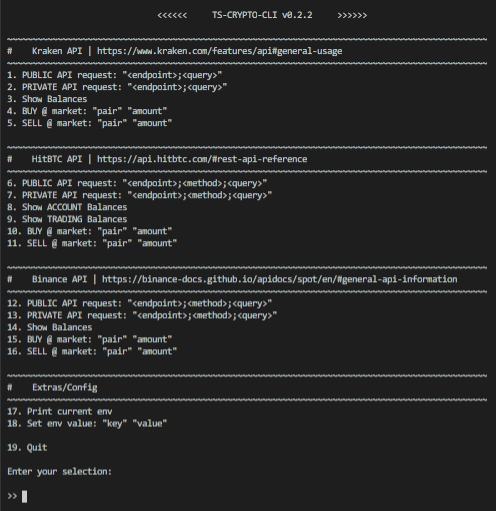
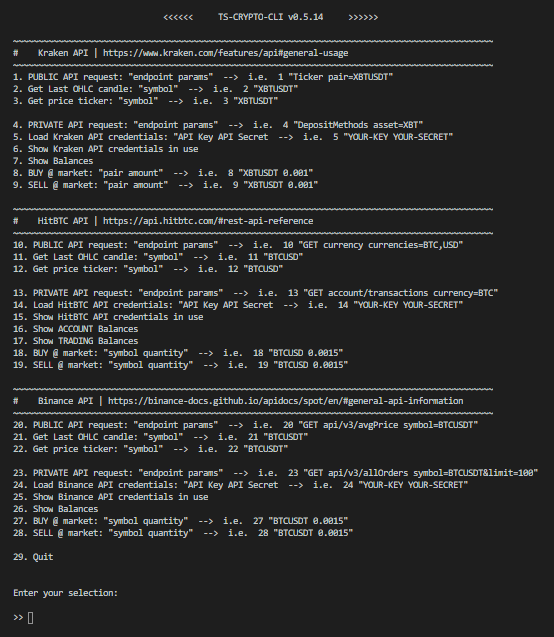
v0.5.14

Changed region(s): [[0.0, 0.0, 0.998, 0.8806], [0.5141, 0.1761, 0.8165, 0.2348], [0.0, 0.91, 0.2419, 0.998]]

diff --git a/src/cli.ts b/src/cli.ts
@@ -34,51 +34,53 @@ import { getHitBTCOHLCCandles } from './services/hitbtc/get_hitbtc_ohlc_candles'
 
 import { filterKrakenBalances, filterHitBTCBalances, filterBinanceBalances } from './util/filter_balances'
 import handleUserInput from './util/handle_user_input'
+import { Method } from 'axios'
 
 nodeMenu
   .customHeader(() => {
-    process.stdout.write(`                              <<<<<<     TS-CRYPTO-CLI v${version}     >>>>>>\n\n`)
+    process.stdout.write(`                              <<<<<<     TS-CRYPTO-CLI v${version}     >>>>>>\n`)
   })
 
-  .addDelimiter('~~~~~~~~~~~~~~~~~~~~~~~~~~~~~~~~~~~~~~~~~~~~~~~~~~~~~~~~~~~~~~~~~~~~~~~~~~~~~~~~~~~~~~~~~~~~~~~~\n#    Kraken API | https://www.kraken.com/features/api#general-usage\n~~~~~~~~~~~~~~~~~~~~~~~~~~~~~~~~~~~~~~~~~~~~~~~~~~~~~~~~~~~~~~~~~~~~~~~~~~~~~~~~~~~~~~~~~~~~~~~~', 2)
-  .addItem('Load Kraken API credentials', (apiKey: string, apiSecret: string) => { process.env.KRAKEN_API_KEY = apiKey; process.env.KRAKEN_API_SECRET = apiSecret; updateKrakenDefaultClient(apiKey, apiSecret) }, null, [{ name: 'API Key', type: 'string' }, { name: 'API Secret', type: 'string' }])
-  .addItem('Show Kraken API credentials in use', async () => { print({apiKey: process.env.KRAKEN_API_KEY, apiSecret: process.env.KRAKEN_API_SECRET}) })
-  .addItem('PUBLIC API request', (input: string) => { handleUserInput(input, 'kraken', 'public') }, null, [{ name: '<endpoint>;<query>', type: 'string' }])
-  .addItem('PRIVATE API request', (input: string) => { handleUserInput(input, 'kraken', 'private') }, null, [{ name: '<endpoint>;<query>', type: 'string' }])
-  .addItem('Get OHLC candles', async (symbol: string) => { print(await getKrakenOHLCCandles(symbol)) }, null, [{ name: '<symbol>', type: 'string' }])
-  .addItem('Get price ticker', async (symbol: string) => { print(await getKrakenPriceTicker(symbol)) }, null, [{ name: '<symbol>', type: 'string' }])
-  .addItem('Show Balances', async () => { print(filterKrakenBalances(await krakenPrivateApiRequest({ url: 'Balance' }))) })
-  .addItem('BUY @ market', async (pair: string, volume: number) => {  print(await krakenPrivateApiRequest({ url: 'AddOrder', data: { pair, type: 'buy', ordertype: 'market', volume } })) }, null, [{ name: '<pair>', type: 'string' }, { name: '<amount>', type: 'numeric' }])
-  .addItem('SELL @ market', async (pair: string, volume: number) => {  print(await krakenPrivateApiRequest({ url: 'AddOrder', data: { pair, type: 'sell', ordertype: 'market', volume } })) }, null, [{ name: '<pair>', type: 'string' }, { name: '<amount>', type: 'numeric' }])
-
+  .addDelimiter('\n~~~~~~~~~~~~~~~~~~~~~~~~~~~~~~~~~~~~~~~~~~~~~~~~~~~~~~~~~~~~~~~~~~~~~~~~~~~~~~~~~~~~~~~~~~~~~~~~\n#    Kraken API | https://www.kraken.com/features/api#general-usage \n~~~~~~~~~~~~~~~~~~~~~~~~~~~~~~~~~~~~~~~~~~~~~~~~~~~~~~~~~~~~~~~~~~~~~~~~~~~~~~~~~~~~~~~~~~~~~~~~', 2)
+  .addItem('PUBLIC API request', (input: string) => { const [endpoint, params] = input.split(' '); handleUserInput(endpoint, 'POST', 'kraken', 'public', params) }, null, [{ name: 'endpoint params"  -->  i.e.  1 "Ticker pair=XBTUSDT', type: 'string' }])
+  .addItem('Get Last OHLC candle', async (symbol: string) => { print((await getKrakenOHLCCandles(symbol))[0]) }, null, [{ name: 'symbol"  -->  i.e.  2 "XBTUSDT', type: 'string' }])
+  .addItem('Get price ticker', async (symbol: string) => { print(await getKrakenPriceTicker(symbol)) }, null, [{ name: 'symbol"  -->  i.e.  3 "XBTUSDT', type: 'string' }])
   .addDelimiter(' ', 1)
-  .addDelimiter('~~~~~~~~~~~~~~~~~~~~~~~~~~~~~~~~~~~~~~~~~~~~~~~~~~~~~~~~~~~~~~~~~~~~~~~~~~~~~~~~~~~~~~~~~~~~~~~~\n#    HitBTC API | https://api.hitbtc.com/#rest-api-reference\n~~~~~~~~~~~~~~~~~~~~~~~~~~~~~~~~~~~~~~~~~~~~~~~~~~~~~~~~~~~~~~~~~~~~~~~~~~~~~~~~~~~~~~~~~~~~~~~~', 2)
-  .addItem('Load HitBTC API credentials', (apiKey: string, apiSecret: string) => { process.env.HITBTC_API_KEY = apiKey; process.env.HITBTC_API_SECRET = apiSecret; updateHitBTCDefaultClient(apiKey, apiSecret) }, null, [{ name: 'API Key', type: 'string' }, { name: 'API Secret', type: 'string' }])
-  .addItem('Show HitBTC API credentials in use', async () => { print({apiKey: process.env.HITBTC_API_KEY, apiSecret: process.env.HITBTC_API_SECRET}) })
-  .addItem('PUBLIC API request', (input: string) => { handleUserInput(input, 'hitbtc', 'public') }, null, [{ name: '<endpoint>;<method>;<query>', type: 'string' }])
-  .addItem('PRIVATE API request', (input: string) => { handleUserInput(input, 'hitbtc', 'private') }, null, [{ name: '<endpoint>;<method>;<query>', type: 'string' }])
-  .addItem('Get OHLC candles', async (symbol: string) => { print(await getHitBTCOHLCCandles(symbol)) }, null, [{ name: '<symbol>', type: 'string' }])
-  .addItem('Get price ticker', async (symbol: string) => { print(await getHitBTCPriceTicker(symbol)) }, null, [{ name: '<symbol>', type: 'string' }])
+  .addItem('PRIVATE API request', (input: string) => { const [endpoint, params] = input.split(' '); handleUserInput(endpoint, 'POST', 'kraken', 'private', params) }, null, [{ name: 'endpoint params"  -->  i.e.  4 "DepositMethods asset=XBT', type: 'string' }])
+  .addItem('Load Kraken API credentials', (input: string) => { const [k, s] = input.split(' '); process.env.KRAKEN_API_KEY = k; process.env.KRAKEN_API_SECRET = s; updateKrakenDefaultClient(k, s) }, null, [{ name: 'API Key API Secret  -->  i.e.  5 "YOUR-KEY YOUR-SECRET', type: 'string' }])
+  .addItem('Show Kraken API credentials in use', () => { print({apiKey: process.env.KRAKEN_API_KEY, apiSecret: process.env.KRAKEN_API_SECRET}) })
+  .addItem('Show Balances', async () => { print(filterKrakenBalances(await krakenPrivateApiRequest({ url: 'Balance' }))) })
+  .addItem('BUY @ market', async (input: string) => {  const [pair, volume] = input.split(' '); print(await krakenPrivateApiRequest({ url: 'AddOrder', data: { pair, type: 'buy', ordertype: 'market', volume } })) }, null, [{ name: 'pair amount"  -->  i.e.  8 "XBTUSDT 0.001', type: 'string' }])
+  .addItem('SELL @ market', async (input: string) => {  const [pair, volume] = input.split(' '); print(await krakenPrivateApiRequest({ url: 'AddOrder', data: { pair, type: 'sell', ordertype: 'market', volume } })) }, null, [{ name: 'pair amount"  -->  i.e.  9 "XBTUSDT 0.001', type: 'string' }])
+
+  .addDelimiter('\n~~~~~~~~~~~~~~~~~~~~~~~~~~~~~~~~~~~~~~~~~~~~~~~~~~~~~~~~~~~~~~~~~~~~~~~~~~~~~~~~~~~~~~~~~~~~~~~~\n#    HitBTC API | https://api.hitbtc.com/#rest-api-reference \n~~~~~~~~~~~~~~~~~~~~~~~~~~~~~~~~~~~~~~~~~~~~~~~~~~~~~~~~~~~~~~~~~~~~~~~~~~~~~~~~~~~~~~~~~~~~~~~~', 2)
+  .addItem('PUBLIC API request', (input: string) => { const [method, endpoint, params] = input.split(' '); handleUserInput(endpoint, method as Method, 'hitbtc', 'public', params) }, null, [{ name: 'endpoint params"  -->  i.e.  10 "GET currency currencies=BTC,USD', type: 'string' }])
+  .addItem('Get Last OHLC candle', async (symbol: string) => { print((await getHitBTCOHLCCandles(symbol))[0]) }, null, [{ name: 'symbol"  -->  i.e.  11 "BTCUSD', type: 'string' }])
+  .addItem('Get price ticker', async (symbol: string) => { print(await getHitBTCPriceTicker(symbol)) }, null, [{ name: 'symbol"  -->  i.e.  12 "BTCUSD', type: 'string' }])
+  .addDelimiter(' ', 1)
+  .addItem('PRIVATE API request', (input: string) => { const [method, endpoint, params] = input.split(' '); handleUserInput(endpoint, method as Method, 'hitbtc', 'private', params) }, null, [{ name: 'endpoint params"  -->  i.e.  13 "GET account/transactions currency=BTC', type: 'string' }])
+  .addItem('Load HitBTC API credentials', (input: string) => { const [k, s] = input.split(' '); process.env.HITBTC_API_KEY = k; process.env.HITBTC_API_SECRET = s; updateHitBTCDefaultClient(k, s) }, null, [{ name: 'API Key API Secret  -->  i.e.  14 "YOUR-KEY YOUR-SECRET', type: 'string' }])
+  .addItem('Show HitBTC API credentials in use', () => { print({apiKey: process.env.HITBTC_API_KEY, apiSecret: process.env.HITBTC_API_SECRET}) })
   .addItem('Show ACCOUNT Balances', async () => { print(filterHitBTCBalances(await hitbtcPrivateApiRequest({ url: 'account/balance' }))) })
   .addItem('Show TRADING Balances', async () => { print(filterHitBTCBalances(await hitbtcPrivateApiRequest({ url: 'trading/balance' }))) })
-  .addItem('BUY @ market',  async (symbol: string, quantity: number) => { print(await hitbtcPrivateApiRequest({ url: 'order', method: 'POST', data: { symbol, side: 'buy', type: 'market', quantity } })) }, null, [{ name: '<pair>', type: 'string' }, { name: '<amount>', type: 'numeric' }])
-  .addItem('SELL @ market',  async (symbol: string, quantity: number) => { print(await hitbtcPrivateApiRequest({ url: 'order', method: 'POST', data: { symbol, side: 'sell', type: 'market', quantity } })) }, null, [{ name: '<pair>', type: 'string' }, { name: '<amount>', type: 'numeric' }])
+  .addItem('BUY @ market', async (input: string) => {  const [symbol, quantity] = input.split(' '); print(await hitbtcPrivateApiRequest({ url: 'order', method: 'POST', data: { symbol, side: 'buy', type: 'market', quantity } })) }, null, [{ name: 'symbol quantity"  -->  i.e.  18 "BTCUSD 0.0015', type: 'string' }])
+  .addItem('SELL @ market', async (input: string) => {  const [symbol, quantity] = input.split(' '); print(await hitbtcPrivateApiRequest({ url: 'order', method: 'POST', data: { symbol, side: 'sell', type: 'market', quantity } })) }, null, [{ name: 'symbol quantity"  -->  i.e.  19 "BTCUSD 0.0015', type: 'string' }])
+
+  .addDelimiter('\n~~~~~~~~~~~~~~~~~~~~~~~~~~~~~~~~~~~~~~~~~~~~~~~~~~~~~~~~~~~~~~~~~~~~~~~~~~~~~~~~~~~~~~~~~~~~~~~~\n#    Binance API | https://binance-docs.github.io/apidocs/spot/en/#general-api-information \n~~~~~~~~~~~~~~~~~~~~~~~~~~~~~~~~~~~~~~~~~~~~~~~~~~~~~~~~~~~~~~~~~~~~~~~~~~~~~~~~~~~~~~~~~~~~~~~~', 2)
+  .addItem('PUBLIC API request', (input: string) => { const [method, endpoint, params] = input.split(' '); handleUserInput(endpoint, method as Method, 'binance', 'public', params) }, null, [{ name: 'endpoint params"  -->  i.e.  20 "GET api/v3/avgPrice symbol=BTCUSDT', type: 'string' }])
+  .addItem('Get Last OHLC candle', async (symbol: string) => { print((await getBinanceOHLCCandles(symbol))[0]) }, null, [{ name: 'symbol"  -->  i.e.  21 "BTCUSDT', type: 'string' }])
+  .addItem('Get price ticker', async (symbol: string) => { print(await getBinancePriceTicker(symbol)) }, null, [{ name: 'symbol"  -->  i.e.  22 "BTCUSDT', type: 'string' }])
+  .addDelimiter(' ', 1)
+  .addItem('PRIVATE API request', (input: string) => { const [method, endpoint, params] = input.split(' '); handleUserInput(endpoint, method as Method, 'binance', 'private', params) }, null, [{ name: 'endpoint params"  -->  i.e.  23 "GET api/v3/allOrders symbol=BTCUSDT&limit=100', type: 'string' }])
+  .addItem('Load Binance API credentials', (input: string) => { const [k, s] = input.split(' '); process.env.BINANCE_API_KEY = k; process.env.BINANCE_API_SECRET = s; updateBinanceDefaultClient(k, s) }, null, [{ name: 'API Key API Secret  -->  i.e.  24 "YOUR-KEY YOUR-SECRET', type: 'string' }])
+  .addItem('Show Binance API credentials in use', () => { print({apiKey: process.env.BINANCE_API_KEY, apiSecret: process.env.BINANCE_API_SECRET}) })
+  .addItem('Show Balances', async () => { print(filterBinanceBalances((await binancePrivateApiRequest({ url: 'api/v3/account' })).balances)) })
+  .addItem('BUY @ market', async (input: string) => {  const [symbol, quantity] = input.split(' '); print(await binancePrivateApiRequest({ url: 'api/v3/order', method: 'POST', data: { symbol, side: 'buy', type: 'market', quantity } })) }, null, [{ name: 'symbol quantity"  -->  i.e.  27 "BTCUSDT 0.0015', type: 'string' }])
+  .addItem('SELL @ market', async (input: string) => {  const [symbol, quantity] = input.split(' '); print(await binancePrivateApiRequest({ url: 'api/v3/order', method: 'POST', data: { symbol, side: 'sell', type: 'market', quantity } })) }, null, [{ name: 'symbol quantity"  -->  i.e.  28 "BTCUSDT 0.0015', type: 'string' }])
 
   .addDelimiter(' ', 1)
-  .addDelimiter('~~~~~~~~~~~~~~~~~~~~~~~~~~~~~~~~~~~~~~~~~~~~~~~~~~~~~~~~~~~~~~~~~~~~~~~~~~~~~~~~~~~~~~~~~~~~~~~~\n#    Binance API | https://binance-docs.github.io/apidocs/spot/en/#general-api-information\n~~~~~~~~~~~~~~~~~~~~~~~~~~~~~~~~~~~~~~~~~~~~~~~~~~~~~~~~~~~~~~~~~~~~~~~~~~~~~~~~~~~~~~~~~~~~~~~~', 2)
-  .addItem('Load Binance API credentials', (apiKey: string, apiSecret: string) => { process.env.BINANCE_API_KEY = apiKey; process.env.BINANCE_API_SECRET = apiSecret; updateBinanceDefaultClient(apiKey, apiSecret) }, null, [{ name: 'API Key', type: 'string' }, { name: 'API Secret', type: 'string' }])
-  .addItem('Show Binance API credentials in use', async () => { print({apiKey: process.env.BINANCE_API_KEY, apiSecret: process.env.BINANCE_API_SECRET}) })
-  .addItem('PUBLIC API request', (input: string) => { handleUserInput(input, 'binance', 'public') }, null, [{ name: '<endpoint>;<method>;<query>', type: 'string' }])
-  .addItem('PRIVATE API request', (input: string) => { handleUserInput(input, 'binance', 'private') }, null, [{ name: '<endpoint>;<method>;<query>', type: 'string' }])
-  .addItem('Get OHLC candles', async (symbol: string) => { print(await getBinanceOHLCCandles(symbol)) }, null, [{ name: '<symbol>', type: 'string' }])
-  .addItem('Get price ticker', async (symbol: string) => { print(await getBinancePriceTicker(symbol)) }, null, [{ name: '<symbol>', type: 'string' }])
-  .addItem('Show Balances', async () => { print(filterBinanceBalances((await binancePrivateApiRequest({ url: 'api/v3/account' })).balances)) })
-  .addItem('BUY @ market',  async (symbol: string, quantity: number) => { print(await binancePrivateApiRequest({ url: 'api/v3/order', method: 'POST', data: { symbol, side: 'buy', type: 'market', quantity } })) }, null, [{ name: '<pair>', type: 'string' }, { name: '<amount>', type: 'numeric' }])
-  .addItem('SELL @ market',  async (symbol: string, quantity: number) => { print(await binancePrivateApiRequest({ url: 'api/v3/order', method: 'POST', data: { symbol, side: 'sell', type: 'market', quantity } })) }, null, [{ name: '<pair>', type: 'string' }, { name: '<amount>', type: 'numeric' }])
-
-  .addDelimiter(' ', 1) 
   .customPrompt(() => {
-    process.stdout.write('\nEnter your selection:\n')
+    process.stdout.write('\n\nEnter your selection:\n')
   })
   .continueCallback(() => {
     // Runs between 'Press enter to continue' and the new menu render

diff --git a/src/util/handle_user_input.ts b/src/util/handle_user_input.ts
@@ -1,21 +1,20 @@
-import { krakenPublicApiRequest, PublicEndpoint, krakenPrivateApiRequest, PrivateEndpoint, binancePublicApiRequest, binancePrivateApiRequest, hitbtcPublicApiRequest, hitbtcPrivateApiRequest } from ".."
-import { parse } from "path"
-import { Method } from "axios"
+import { krakenPublicApiRequest, PublicEndpoint, krakenPrivateApiRequest, PrivateEndpoint, binancePublicApiRequest, binancePrivateApiRequest, hitbtcPublicApiRequest, hitbtcPrivateApiRequest } from '..'
+import { parse } from 'qs'
+import { Method } from 'axios'
 import debugHelper from './debug_helper'
-const { print, logError } = debugHelper(__filename)
+const { print } = debugHelper(__filename)
 
-const handleUserInput = async (input: string, exchange: 'kraken' | 'hitbtc' | 'binance', pOp: 'public' | 'private'): Promise<void> => {
+const handleUserInput = async (endpoint: string, method: Method, exchange: 'kraken' | 'hitbtc' | 'binance', pOp: 'public' | 'private', params = ''): Promise<void> => {
     if (exchange === 'kraken') {
-      const [endpoint, rawParams] = input.split(';')
       if (pOp === 'public') {
-        print(await krakenPublicApiRequest({ url: endpoint as PublicEndpoint, data: parse(rawParams) }))
+        print(await krakenPublicApiRequest({ url: endpoint as PublicEndpoint, data: parse(params) }))
       } else {
-        print(await krakenPrivateApiRequest({ url: endpoint as PrivateEndpoint, data: parse(rawParams) }))
+        print(await krakenPrivateApiRequest({ url: endpoint as PrivateEndpoint, data: parse(params) }))
       }
       return
     }
-    const [endpoint, method = 'GET', rawParams] = input.split(';')
-    const dataOrParams = parse(rawParams)
+
+    const dataOrParams = parse(params)
     switch (exchange) {
       case 'binance':
         if (pOp === 'public') {
@@ -26,7 +25,6 @@ const handleUserInput = async (input: string, exchange: 'kraken' | 'hitbtc' | 'b
         return
       case 'hitbtc':
         if (pOp === 'public') {
-          const dataOrParams = parse(rawParams)
           print(await hitbtcPublicApiRequest({ url: endpoint, method: method as Method, data: dataOrParams, params: dataOrParams }))
         } else {
           print(await hitbtcPrivateApiRequest({ url: endpoint, method: method as Method, data: dataOrParams, params: dataOrParams }))

diff --git a/src/api_clients/hitbtc/private_api_request.ts b/src/api_clients/hitbtc/private_api_request.ts
@@ -3,7 +3,7 @@ import debugHelper from '../../util/debug_helper'
 import axios, { AxiosInstance, AxiosRequestConfig } from 'axios'
 import { hitbtcAxiosConfig } from './hitbtc_axios_config'
 
-const { debug } = debugHelper(__filename)
+// const { debug } = debugHelper(__filename)
 
 export const createHitBTCPrivateApiClient = (apikey = process.env.HITBTC_API_KEY || '', apiSecret = process.env.HITBTC_API_SECRET || ''): AxiosInstance => {
     const privateApiClient: AxiosInstance = axios.create(hitbtcAxiosConfig)
@@ -16,7 +16,7 @@ export const createHitBTCPrivateApiClient = (apikey = process.env.HITBTC_API_KEY
 let defaultClient = createHitBTCPrivateApiClient()
 export const hitbtcPrivateApiRequest = async ({ url, method, data, params }: AxiosRequestConfig): Promise<any> => {
     const { data: hitBTCresponse } = await defaultClient.request({ url, method, params, data })
-    debug({ hitBTCresponse })
+    // debug({ hitBTCresponse })
     return hitBTCresponse
 }
 

diff --git a/src/api_clients/binance/private_api_request.ts b/src/api_clients/binance/private_api_request.ts
@@ -5,7 +5,7 @@ import { binanceAxiosConfig } from './binance_axios_config'
 import * as moment from 'moment'
 import { getBinanceMessageSignature } from './message_signature'
 
-const { debug } = debugHelper(__filename)
+// const { debug } = debugHelper(__filename)
 
 export const createBinancePrivateApiClient = (apikey = process.env.BINANCE_API_KEY || '', apiSecret = process.env.BINANCE_API_SECRET || ''): AxiosInstance => {
     const privateApiClient: AxiosInstance = axios.create(binanceAxiosConfig)
@@ -46,7 +46,7 @@ export const createBinancePrivateApiClient = (apikey = process.env.BINANCE_API_K
 let defaultClient = createBinancePrivateApiClient()
 export const binancePrivateApiRequest = async ({ url, method, data, params }: AxiosRequestConfig): Promise<any> => {
     const { data: binanceresponse } = await defaultClient.request({ url, method, params, data })
-    debug({ binanceresponse })
+    // debug({ binanceresponse })
     return binanceresponse
 }
 

diff --git a/src/api_clients/binance/public_api_request.ts b/src/api_clients/binance/public_api_request.ts
@@ -3,7 +3,7 @@ import debugHelper from '../../util/debug_helper'
 import axios, { AxiosInstance, AxiosRequestConfig } from 'axios'
 import { binanceAxiosConfig } from './binance_axios_config'
 
-const { debug } = debugHelper(__filename)
+// const { debug } = debugHelper(__filename)
 
 const publicApiClient: AxiosInstance = axios.create(binanceAxiosConfig)
 publicApiClient.interceptors.request.use(baseAxiosRequestInterceptor, baseAxiosRequestErrorInterceptor)
@@ -11,6 +11,6 @@ publicApiClient.interceptors.response.use(baseAxiosResponseInterceptor, baseAxio
 
 export const binancePublicApiRequest = async ({ url, method, params, data }: AxiosRequestConfig): Promise<any> => {
     const { data: binancePublicResponse } = await publicApiClient.request({ url, method, params, data })
-    debug({ binancePublicResponse })
+    // debug({ binancePublicResponse })
     return binancePublicResponse
 }

diff --git a/src/api_clients/hitbtc/public_api_request.ts b/src/api_clients/hitbtc/public_api_request.ts
@@ -3,7 +3,7 @@ import debugHelper from '../../util/debug_helper'
 import axios, { AxiosInstance, AxiosRequestConfig } from 'axios'
 import { hitbtcAxiosConfig } from './hitbtc_axios_config'
 
-const { debug } = debugHelper(__filename)
+// const { debug } = debugHelper(__filename)
 
 const publicApiClient: AxiosInstance = axios.create(hitbtcAxiosConfig)
 publicApiClient.defaults.baseURL = `${publicApiClient.defaults.baseURL}public/`
@@ -12,6 +12,6 @@ publicApiClient.interceptors.response.use(baseAxiosResponseInterceptor, baseAxio
 
 export const hitbtcPublicApiRequest = async ({ url, method, params, data }: AxiosRequestConfig): Promise<any> => {
     const { data: hitbtcPublicResponse } = await publicApiClient.request({ url, method, params, data })
-    debug({ hitbtcPublicResponse })
+    // debug({ hitbtcPublicResponse })
     return hitbtcPublicResponse
 }

diff --git a/src/api_clients/kraken/private_api_request.ts b/src/api_clients/kraken/private_api_request.ts
@@ -5,7 +5,7 @@ import axios, { AxiosInstance, AxiosRequestConfig } from 'axios'
 import { krakenAxiosConfig, apiVersion } from './kraken_axios_config'
 import { PrivateEndpoint } from '../../types/kraken_api_endpoints'
 
-const { debug, logError } = debugHelper(__filename)
+const { logError } = debugHelper(__filename)
 
 export const createKrakenPrivateApiClient = (apikey = process.env.KRAKEN_API_KEY || '', apiSecret = process.env.KRAKEN_API_SECRET || ''): AxiosInstance => {
     const privateApiClient: AxiosInstance = axios.create(krakenAxiosConfig)
@@ -41,7 +41,7 @@ export const krakenPrivateApiRequest = async ({ url, data }: KrakenPrivateReques
         logError(errorStr)
         throw new Error(errorStr)
     }
-    debug({ krakenPrivateResponse })
+    // debug({ krakenPrivateResponse })
     return krakenPrivateResponse
 }
 

diff --git a/src/api_clients/hitbtc/private_ws_handler.ts b/src/api_clients/hitbtc/private_ws_handler.ts
@@ -2,7 +2,7 @@ import debugHelper from '../../util/debug_helper'
 import { getHitBTCPublicObservableFromWS } from './public_ws_handler'
 import { Observable } from 'rxjs/internal/Observable'
 
-const { debug, logError } = debugHelper(__filename)
+const { logError } = debugHelper(__filename)
 
 const authData = {
     method: "login",
@@ -18,7 +18,7 @@ export const getHitBTCPrivateObservableFromWS = (subscriptionData: any, filterFn
     const auth$ = getHitBTCPublicObservableFromWS(authData, ({ id }) => id === "authRequest")
     const authSubscription = auth$.subscribe(({ result, error }) => {
         authSubscription.unsubscribe()
-        debug({ result, error })
+        // debug({ result, error })
         if (error) {
             logError({ error })
             throw new Error(error)

diff --git a/src/api_clients/kraken/public_api_request.ts b/src/api_clients/kraken/public_api_request.ts
@@ -4,7 +4,7 @@ import debugHelper from '../../util/debug_helper'
 import { krakenAxiosConfig } from './kraken_axios_config'
 import { PublicEndpoint } from '../../types/kraken_api_endpoints'
 
-const { debug, logError } = debugHelper(__filename)
+const { logError } = debugHelper(__filename)
 
 const publicApiClient: AxiosInstance = axios.create(krakenAxiosConfig)
 publicApiClient.defaults.baseURL = `${publicApiClient.defaults.baseURL}/public`
@@ -24,6 +24,6 @@ export const krakenPublicApiRequest = async ({ url, data }: KrakenPublicRequestC
         logError(errorStr)
         throw new Error(errorStr)
     }
-    debug({ krakenPublicResponse })
+    // debug({ krakenPublicResponse })
     return krakenPublicResponse
 }

diff --git a/src/api_clients/kraken/private_ws_handler.ts b/src/api_clients/kraken/private_ws_handler.ts
@@ -4,7 +4,7 @@ import { krakenPrivateApiRequest } from './private_api_request'
 import debugHelper from '../../util/debug_helper'
 import { Observable } from 'rxjs/internal/Observable'
 
-const { debug, logError } = debugHelper(__filename)
+const { logError } = debugHelper(__filename)
 
 export const krakenPrivateWS = webSocket({
     protocol: 'v1',
@@ -15,7 +15,7 @@ export const krakenPrivateWS = webSocket({
 export const gethWsAuthToken = async (): Promise<string> => {
     try {
         const { token } = await krakenPrivateApiRequest({ url: 'GetWebSocketsToken' })
-        debug({ token })
+        // debug({ token })
         return token
         
     } catch({ code, message }) {

diff --git a/src/api_clients/binance/private_ws_handler.ts b/src/api_clients/binance/private_ws_handler.ts
@@ -5,12 +5,12 @@ import debugHelper from '../../util/debug_helper'
 import { Observable } from 'rxjs/internal/Observable'
 import { baseWsURL } from './binance_axios_config'
 
-const { debug, logError } = debugHelper(__filename)
+const { logError } = debugHelper(__filename)
 
 export const gethWsListenToken = async (): Promise<string> => {
     try {
         const { listenKey } = await binancePrivateApiRequest({ url: 'api/v3/userDataStream', method: 'POST' })
-        debug({ listenKey })
+        // debug({ listenKey })
         return listenKey
         
     } catch({ code, message }) {

diff --git a/README.md b/README.md
@@ -7,8 +7,8 @@
 ## Environment Variables
 
 ```
-# Each REST request/response will be recorded to a log file if you set this path
-TS_CRYPTO_CLI_LOGS_PATH=D:\DESKTOP\ts-crypto-cli_logs
+# Each REST request/response can be optionally recorded to a log file if you set a path here
+TS_CRYPTO_CLI_LOGS_PATH=./logs
 
 KRAKEN_API_KEY=<...>
 KRAKEN_API_SECRET=<...>
@@ -110,8 +110,8 @@ export {
 
 #### cmd (windows)
 
-- `set KRAKEN_API_KEY=<...> & set KRAKEN_API_SECRET=<...> & set HITBTC_API_KEY=<...> $ etc... & npx ts-crypto-cli`
+- `set KRAKEN_API_KEY=<...> & set KRAKEN_API_SECRET=<...> & set HITBTC_API_KEY=<...> & etc... & npx ts-crypto-cli`
 
 #### Unix/OSx
 
-- `KRAKEN_API_KEY=<...> KRAKEN_API_SECRET=<...> HITBTC_API_KEY=<...> npx ts-crypto-cli`
+- `KRAKEN_API_KEY=<...> KRAKEN_API_SECRET=<...> HITBTC_API_KEY=<...> etc.. npx ts-crypto-cli`
